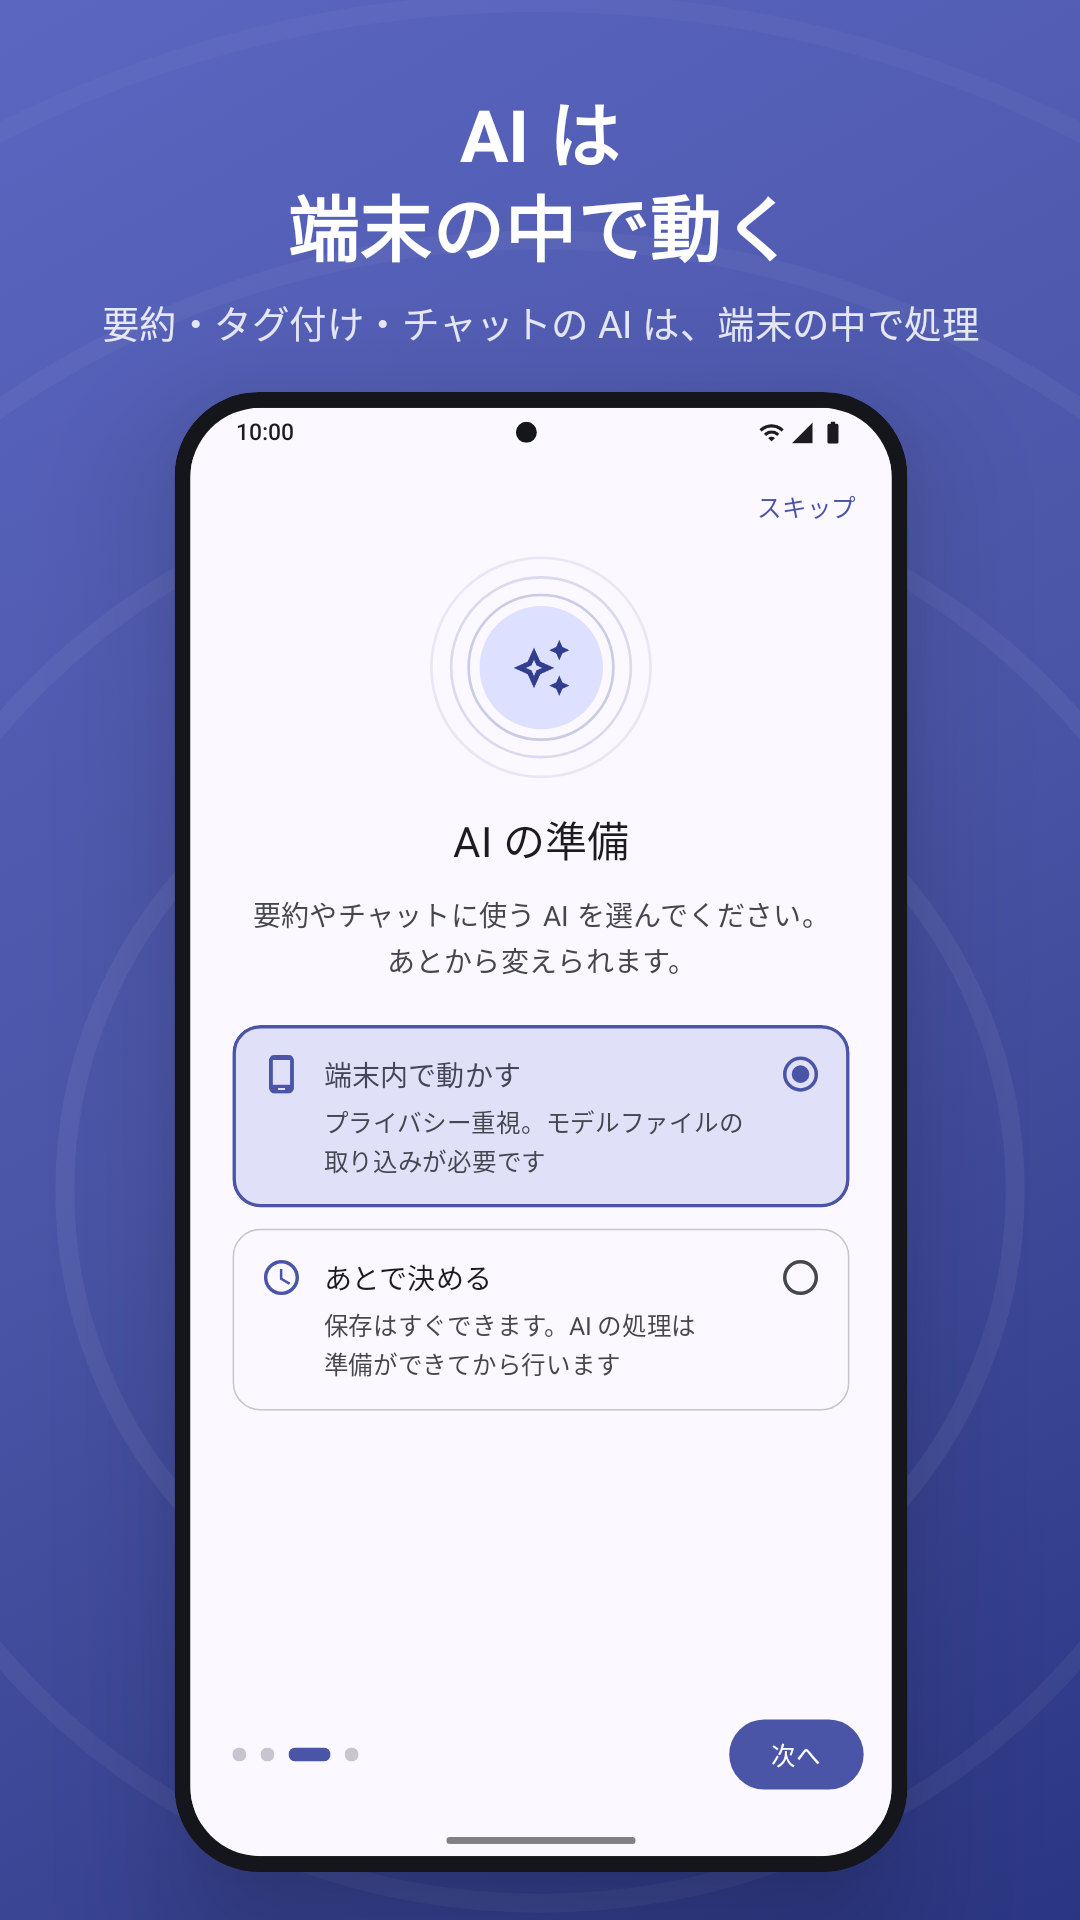
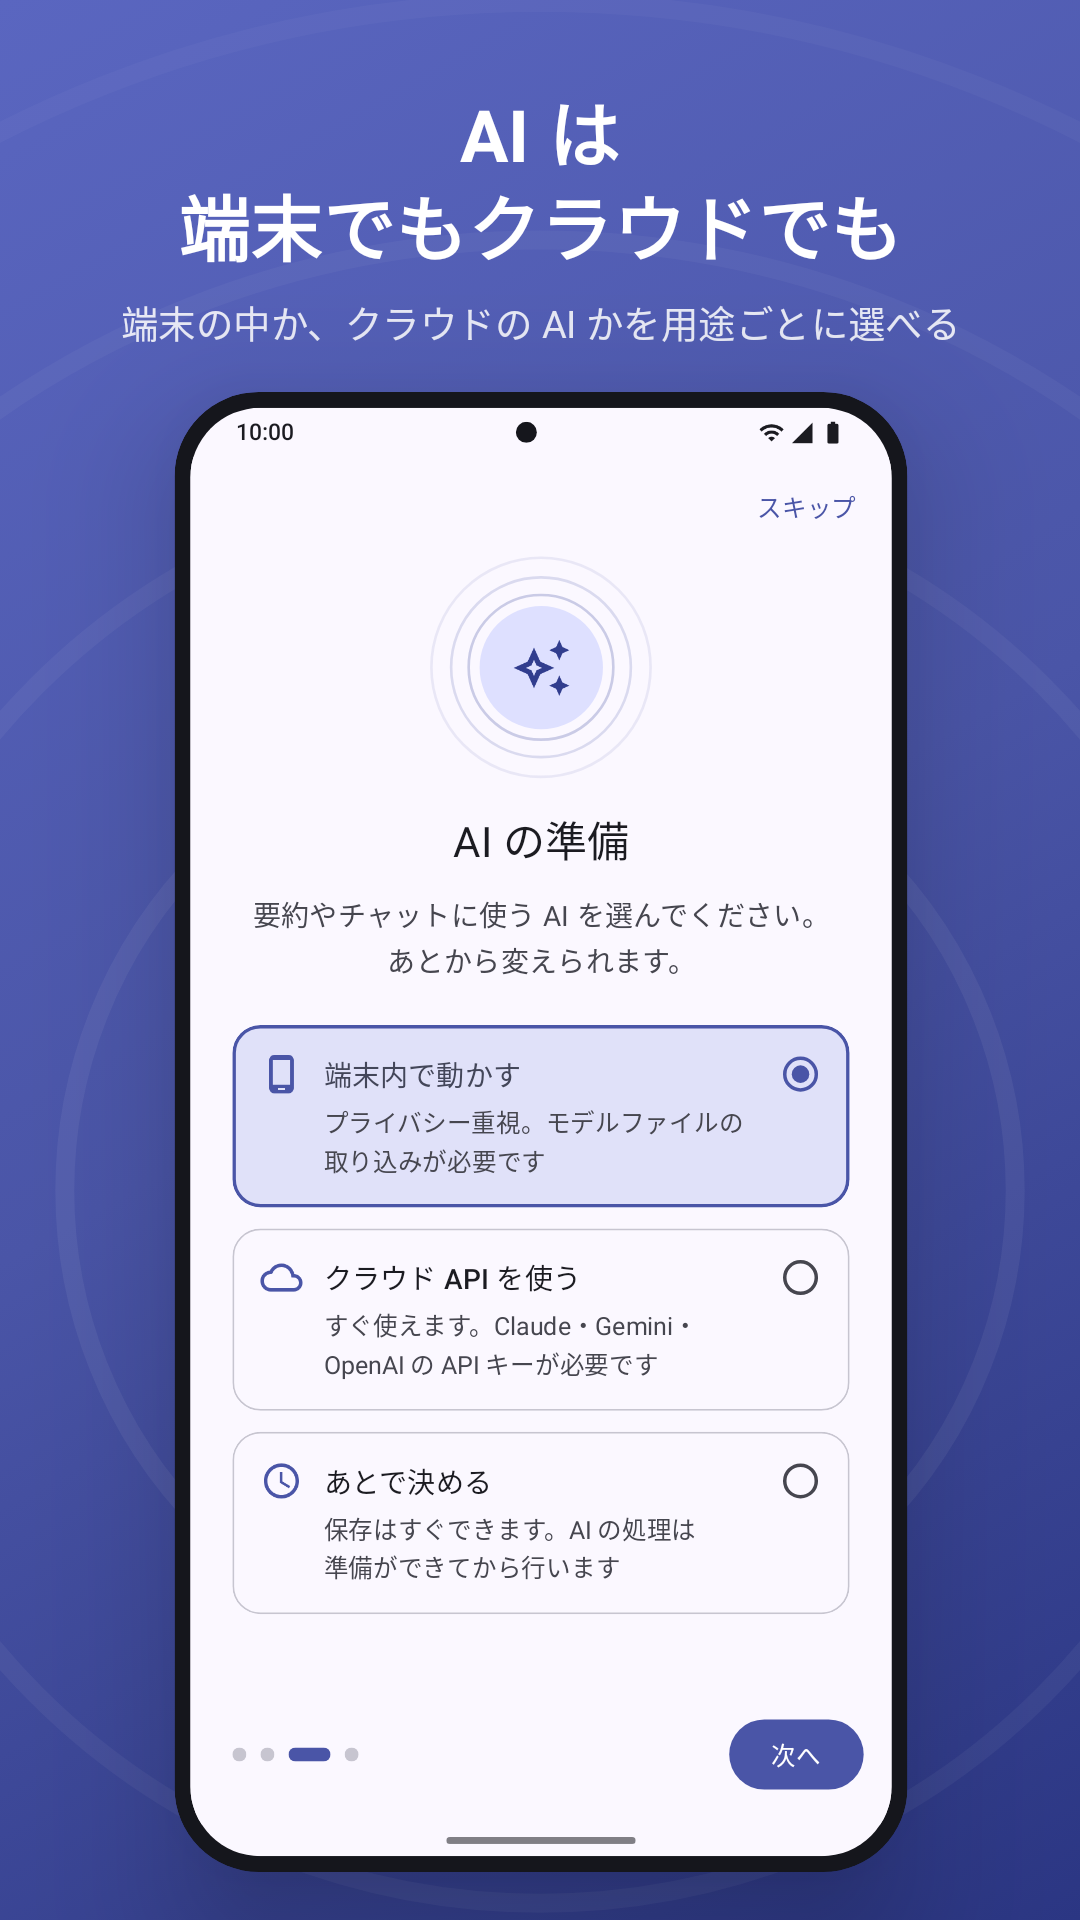
ストアの掲載物で、端末内の AI とクラウドの AI を並べて打ち出し、送る内容をポリシーとデータ セーフティに書く
- 8 枚目と紹介動画の最後の場面の見出しを「AI は / 端末でもクラウドでも」にし、説明も端末内かクラウドかを選べる、に
  (画像・動画の文字には会社名を入れない)。8 枚目は描き直し、初回の「AI の準備」に「クラウド API を使う」が写る
- 簡単な説明・詳しい説明・リリースノートを、端末内とクラウド(Claude・Gemini・OpenAI)を選べる書き方に。
  詳しい説明の「ご注意」に、クラウドは API キーが要り、料金は各社から請求され、選んだ用途の内容が送られることを足す
- プライバシーポリシーの下書き: 「すべて端末の中」を「既定では端末の中」に直し、送り先に Anthropic・Google・OpenAI
  (AI の処理・文字起こし・埋め込み)を足す。マイク・第三者への提供にも但し書き
- データ セーフティの下書き: クラウドの AI と埋め込みの行と、答え方の案(収集は任意、共有は開発者が決める)を足す。
  古い注意(CLOUD_AI_ENABLED = false なので端末内だけ)を、今の方針とクラウドを止めたときに戻す所に書き換える
- アプリのコードの変更はなし。スキーマの変更はなし

diff --git a/app/src/test/java/com/unchunks/echomark/screenshot/store/StorePromoVideoTest.kt b/app/src/test/java/com/unchunks/echomark/screenshot/store/StorePromoVideoTest.kt
@@ -173,7 +173,7 @@ private object PromoTimeline {
         PromoScene("graph", 26_400, 28_800) {
             StoreScreens.Graph()
         },
-        // クラウドの AI は今は使えない(CLOUD_AI_ENABLED = false)ので、見出しは端末内の AI だけを打ち出している
+        // 端末内とクラウド(CLOUD_AI_ENABLED = true)の AI を並べて打ち出す。画面は初回の「AI の準備」で、両方の選択肢が写る
         PromoScene("ai", 28_800, OUTRO_START) {
             StoreScreens.AiChoice()
         }

diff --git a/docs/store-listing.md b/docs/store-listing.md
@@ -90,8 +90,12 @@
 
 - 見出しは画面の内容をそのまま言う短い文にし、画像の 20% 以内に収める(Play のおすすめ)。
   「今すぐ入手」のような行動を促す言葉、「No.1」のような順位の主張は入れない。
-- **クラウドの AI は今は使えない(`CLOUD_AI_ENABLED = false`)ので、端末内の AI だけを打ち出している。**
-  クラウドの AI を有効にしたら、8 枚目(設定の `8_ai`)・動画の最後の場面(`video.scenes.ai`)・説明文の「端末の中で動く AI」を見直すこと。
+- **AI は、端末内とクラウド(`CLOUD_AI_ENABLED = true`)を同じ重さで並べて打ち出している。** 既定は端末内で、
+  クラウドは利用者が用途ごとに選び、自分の API キーを入れたときだけ使う。この前提は説明文・プライバシーポリシー・データ セーフティにも書いてある。
+  画像と動画の文字には会社名(Claude・Gemini・OpenAI)を入れない(他社の商標を画像に載せないため。説明文には使える会社として書く)。
+- クラウドの AI を止める(`CLOUD_AI_ENABLED = false`)ときは、8 枚目(設定の `8_ai`)・動画の最後の場面(`video.scenes.ai`)・
+  説明文の「端末の AI も、クラウドの AI も」と「ご注意」・`docs/privacy-policy.md`・下のデータ セーフティを端末内だけに戻すこと
+  (8 枚目の画面からもクラウドの選択肢が消える)。
 - フィーチャー グラフィックは、動画を載せると中央に再生ボタンが重なるので、中央を空けている。
 
 | # | 見出し | 画面 |
@@ -103,10 +107,10 @@
 | 5 | 保存したものに / AI が答える | チャット(引用元つきの答え) |
 | 6 | 忘れた頃に / もう一度届く | 今週のふり返り |
 | 7 | 興味のつながりが / ひと目でわかる | つながりの図 |
-| 8 | AI は / 端末の中で動く | はじめにの案内(AI の準備) |
+| 8 | AI は / 端末でもクラウドでも | はじめにの案内(AI の準備。端末内・クラウド・あとで決める の選択肢) |
 
 紹介動画(1920×1080・30fps・34 秒・音声なし)は、共有から保存 → AI の自動の整理 → 詳細 → 意味の検索(入力から結果まで)
-→ チャット(答えが流れて出る)→ つながりの図 → 端末内 AI、の順。Play では最初の 30 秒が消音で自動再生されるので、
+→ チャット(答えが流れて出る)→ つながりの図 → AI の選択(端末内かクラウドか)、の順。Play では最初の 30 秒が消音で自動再生されるので、
 説明は見出しの文字で伝え、最初の 3 秒以内に実際の画面を出している。
 
 ## Play Console に載せる
@@ -122,7 +126,7 @@
    - 「子ども向けではない」を選ぶ
    - 音楽を足すなら、YouTube Studio のオーディオ ライブラリなど、使ってよい音源にする(著作権の申し立てで広告が付くと載せられない)
    - タイトルの案: 「EchoMark ― 保存するだけで AI が整理するブックマーク」
-   - 説明の案: 「保存した記事やメモを、端末の中で動く AI が要約・タグ付け。言葉の意味で探せて、保存した内容に質問もできる Android アプリです。」
+   - 説明の案: 「保存した記事やメモを、端末の中の AI かクラウドの AI が要約・タグ付け。言葉の意味で探せて、保存した内容に質問もできる Android アプリです。」
 4. カテゴリは「仕事効率化」、連絡先のメールアドレス(必須)を入れる。
 
 ### プライバシーポリシー(必須)
@@ -134,7 +138,8 @@ Play Console の「アプリのコンテンツ」→「プライバシー ポリ
 
 - **広告**: 含まない。
 - **アプリのアクセス権**: ログインは無い。審査の人が AI を試せるよう、「設定 > AI の設定 > おすすめのモデル からモデルを
-  ダウンロードすると、要約・チャットが動きます」と書き添えるとよい。
+  ダウンロードすると、要約・チャットが動きます」と書き添えるとよい。クラウドの AI は利用者自身の API キーが要るので、
+  審査では端末内のモデルで試してもらう旨も書く(審査用のキーは渡さない)。
 - **ターゲット層**: AI のチャットがあるので、18 歳以上にしておくのが無難(13 歳未満を含めるとファミリー ポリシーの対象になる)。
 - **データ セーフティ**: 開発者のサーバーは無く、解析・広告・クラッシュの送信も無い。端末の外に出るのは次のものだけ
   (経路の一覧は `docs/offline-mode.md`)。「収集」の定義は「端末の外へ送ること」で、利用者が自分で始めた、送ると分かる操作で
@@ -146,12 +151,24 @@ Play Console の「アプリのコンテンツ」→「プライバシー ポリ
   | 「資料を探す」のテーマ | 利用者が探したとき | arXiv・はてなブックマーク・Wikipedia・YouTube |
   | 地図の背景のタイルの要求(見ている範囲) | 場所の画面を開いたとき | OpenFreeMap |
   | AI のモデルのダウンロード | 利用者がダウンロードしたとき | Hugging Face |
-  | 保存した内容・AI の処理・音声 | **送らない**(要約・埋め込み・チャット・文字起こし・文字認識・読み上げは端末の中) | ― |
+  | 保存した内容・AI の処理・音声(既定) | **送らない**(既定の端末内の AI では、要約・埋め込み・チャット・文字起こし・文字認識・読み上げは端末の中) | ― |
+  | クラウドの AI を選んだ用途の入力(タイトル・本文・メモ、チャットの質問と会話、答えに使うブックマークの内容。「ファイルもクラウドで解析」がオンなら画像・PDF・音声・動画と、文字起こしの音声) | 利用者が用途ごとにクラウドを選び、自分の API キーを入れたとき | Anthropic・Google・OpenAI のうち選んだ会社 |
+  | 検索用の埋め込みの入力(タイトル・要約・本文・検索語) | 利用者が埋め込みを作る場所を「クラウド」にしたとき | Google・OpenAI |
   | 現在地 | **送らない**(押したときに1回だけ調べ、ブックマークに保存するだけ) | ― |
 
-  答え方の案: 「データの収集・共有はない」を基本にし、Web 検索の検索語を「収集」として申告するか(アプリのアクティビティ >
-  アプリ内検索の履歴、任意、一時的な処理、共有なし)は開発者が決める。通信は HTTPS。「データの削除をリクエストできる」は、
-  アプリの「すべてのデータを削除」で消せる(開発者は預かっていない)。
+  クラウドの AI は既定では使わない。アプリに同梱のキーは無く、利用者のキーで各社へ直接送る(開発者のサーバーは通らない)。
+  何をどの会社へ送るかは、AI の設定の画面に出している(`cloudNotice`)。
+
+  答え方の案:
+  - **データの収集**: 「はい」。クラウドの AI と Web 検索は、どれも利用者が選んだときだけ送るので「任意」。目的は「アプリの機能」。
+    通信は HTTPS。申告する種類の候補:
+    - アプリのアクティビティ > その他のユーザー作成コンテンツ(本文・メモ・チャット)・アプリ内検索の履歴(埋め込みと Brave の検索語)
+    - 写真と動画 > 写真・動画、ファイルとドキュメント(PDF)、音声 > 音声録音・その他の音声ファイル(ファイルの送信と文字起こし)
+  - **一時的な処理か**: 「いいえ」が無難(送った先の各社が、それぞれの規約に従って保存することがある)。
+  - **第三者との共有**: 「なし」を勧める。利用者が自分で選び、送り先が画面に出る送信は、共有の例外「利用者が始めた操作」に当たるため。
+    慎重にいくなら「あり」(目的はアプリの機能)。最後に決めるのは開発者。
+  - **データの削除をリクエストできるか**: アプリの「すべてのデータを削除」で消せる(開発者は預かっていない)。
+    クラウドの各社に送った内容は、利用者が各社との契約(API のアカウント)の中で扱う。
 - **フォアグラウンド サービス**: Android 14 以上が対象なので、種類ごとの申告と、**機能を使う様子の動画の URL** が要る(未作成)。
   | 種類 | 使う所 | 動画に映す操作 |
   | --- | --- | --- |
